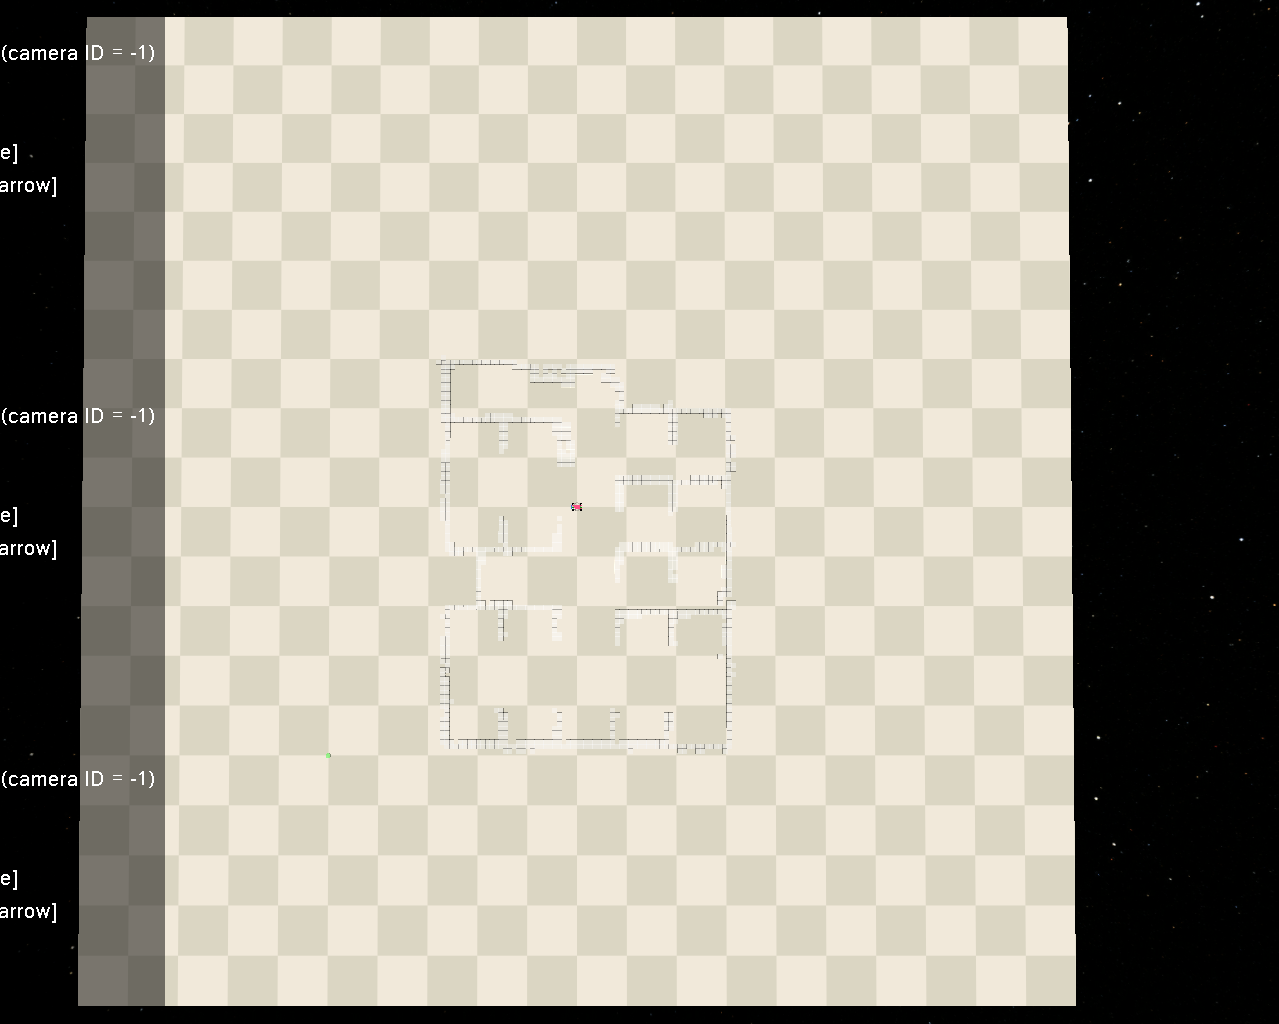
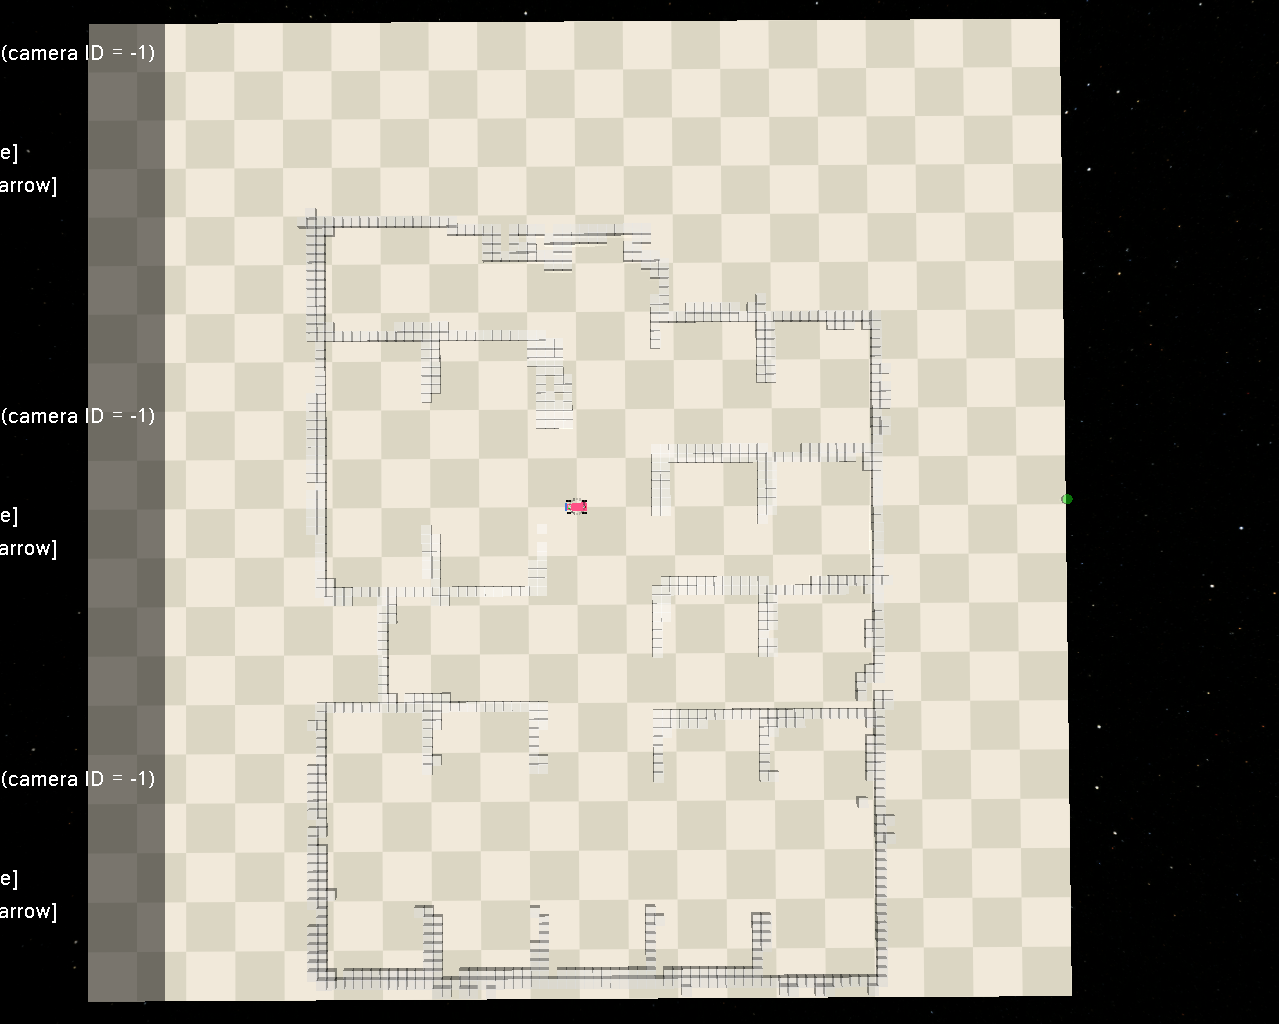
1

diff --git a/safety-gymnasium-main/safety_gymnasium/tasks/safe_navigation/goal/goal_level0.py b/safety-gymnasium-main/safety_gymnasium/tasks/safe_navigation/goal/goal_level0.py
@@ -28,7 +28,7 @@ class GoalLevel0(BaseTask):
     """An agent must navigate to a goal."""
     def __init__(self, config) -> None:
         super().__init__(config=config)
-        self.floor_conf.size = [20.0, 20.0, 0.1]
+        self.floor_conf.size = [10.0, 10.0, 0.1]
         self.placements_conf.extents = [-1, -1, 1, 1]
         self._add_geoms(Goal(keepout=0.305,locations=[(-2, -2)],size=0.1))
         with open('array.pkl', 'rb') as file:
@@ -65,7 +65,7 @@ class GoalLevel0(BaseTask):
         pass
 
     def specific_pre_reset(self):
-        self.agent.locations = ((0.0, 10.0),)
+        self.agent.locations = ((0.0, 0.0),)
         self.agent.rot = math.pi
 
         self.goal.locations = (random.choice(self.goal_locs),)
